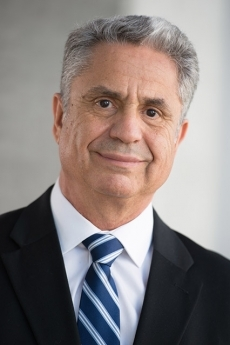
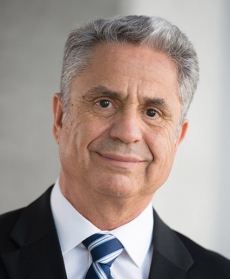
update prof.louri's img that has been cropped

diff --git a/professor/index.html b/professor/index.html
@@ -204,7 +204,7 @@ alt="图片" style="width:435;max-width:100%">
 </div>
 -->
 
-<p><img src="/img/louri.jpg" hspace="20" vspace="0" border="0" align="left" style="float: left; width: 250px;"></p>
+<p><img src="/img/louri_ece.jpg" hspace="20" vspace="0" border="0" align="left" style="float: left; width: 250px;"></p>
 
 <h3 id="ahmed-louri">Ahmed Louri</h3>
 
